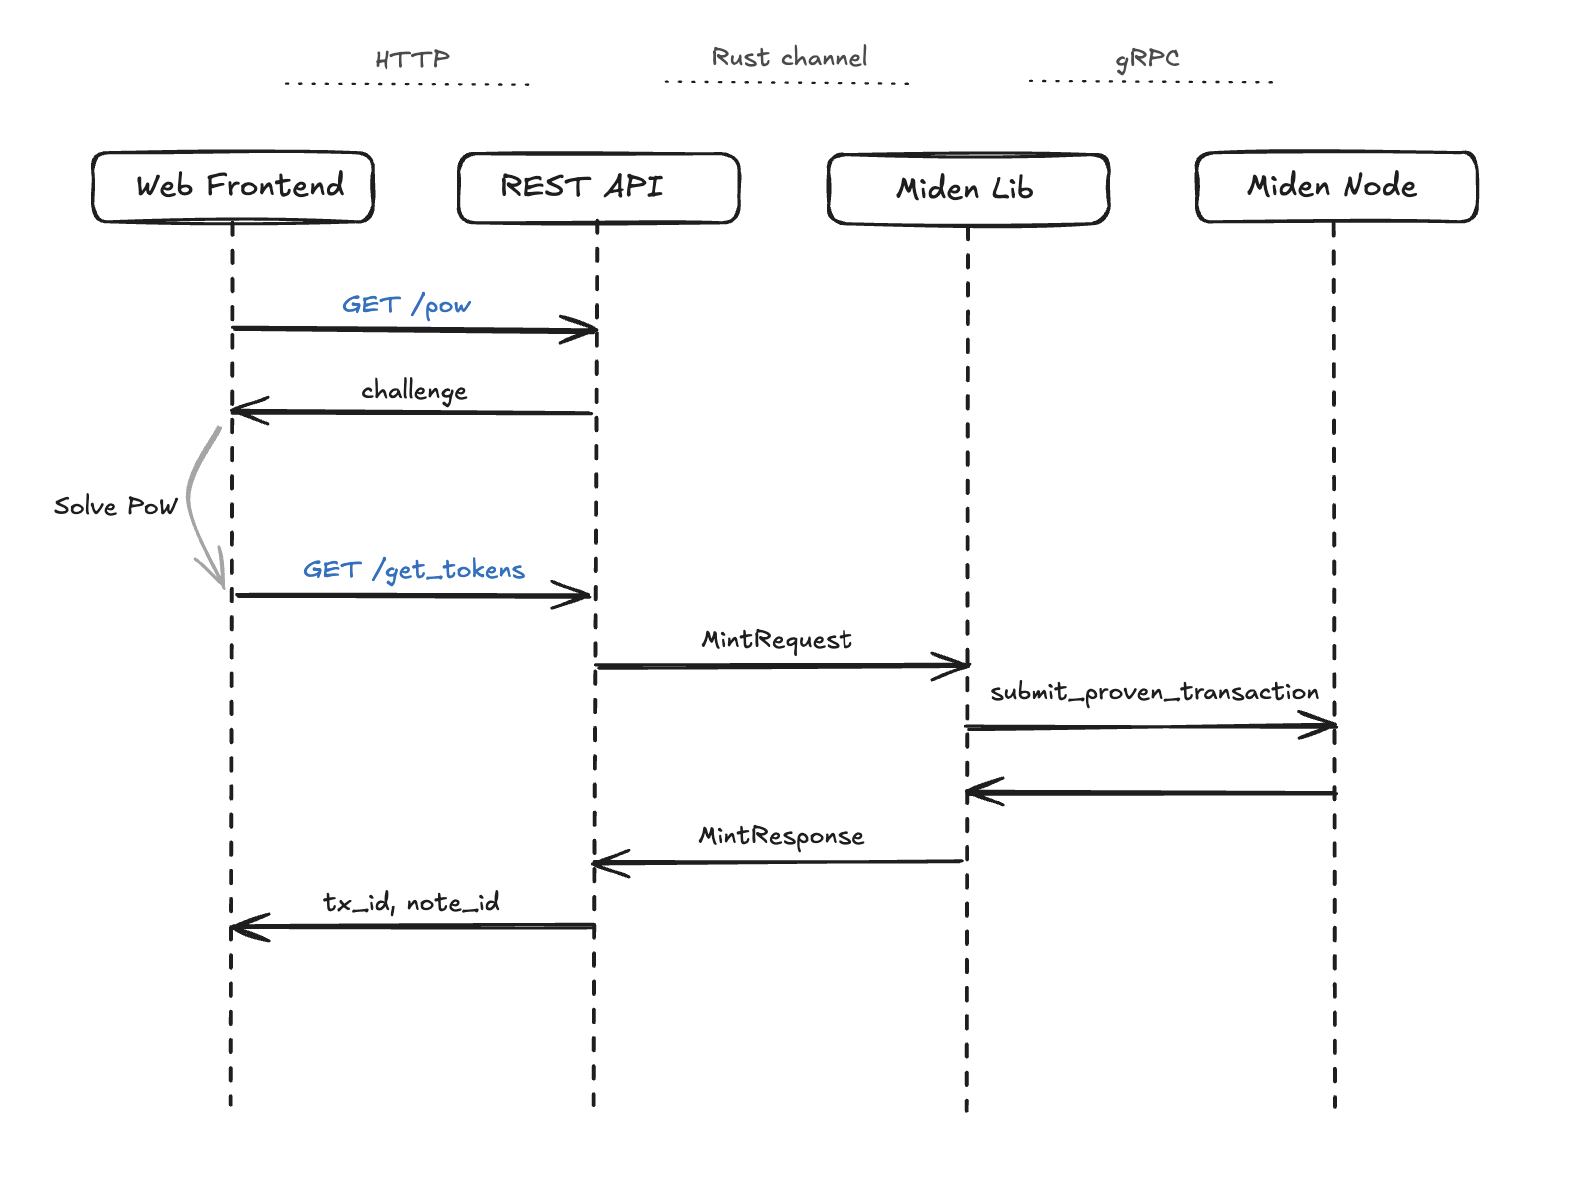
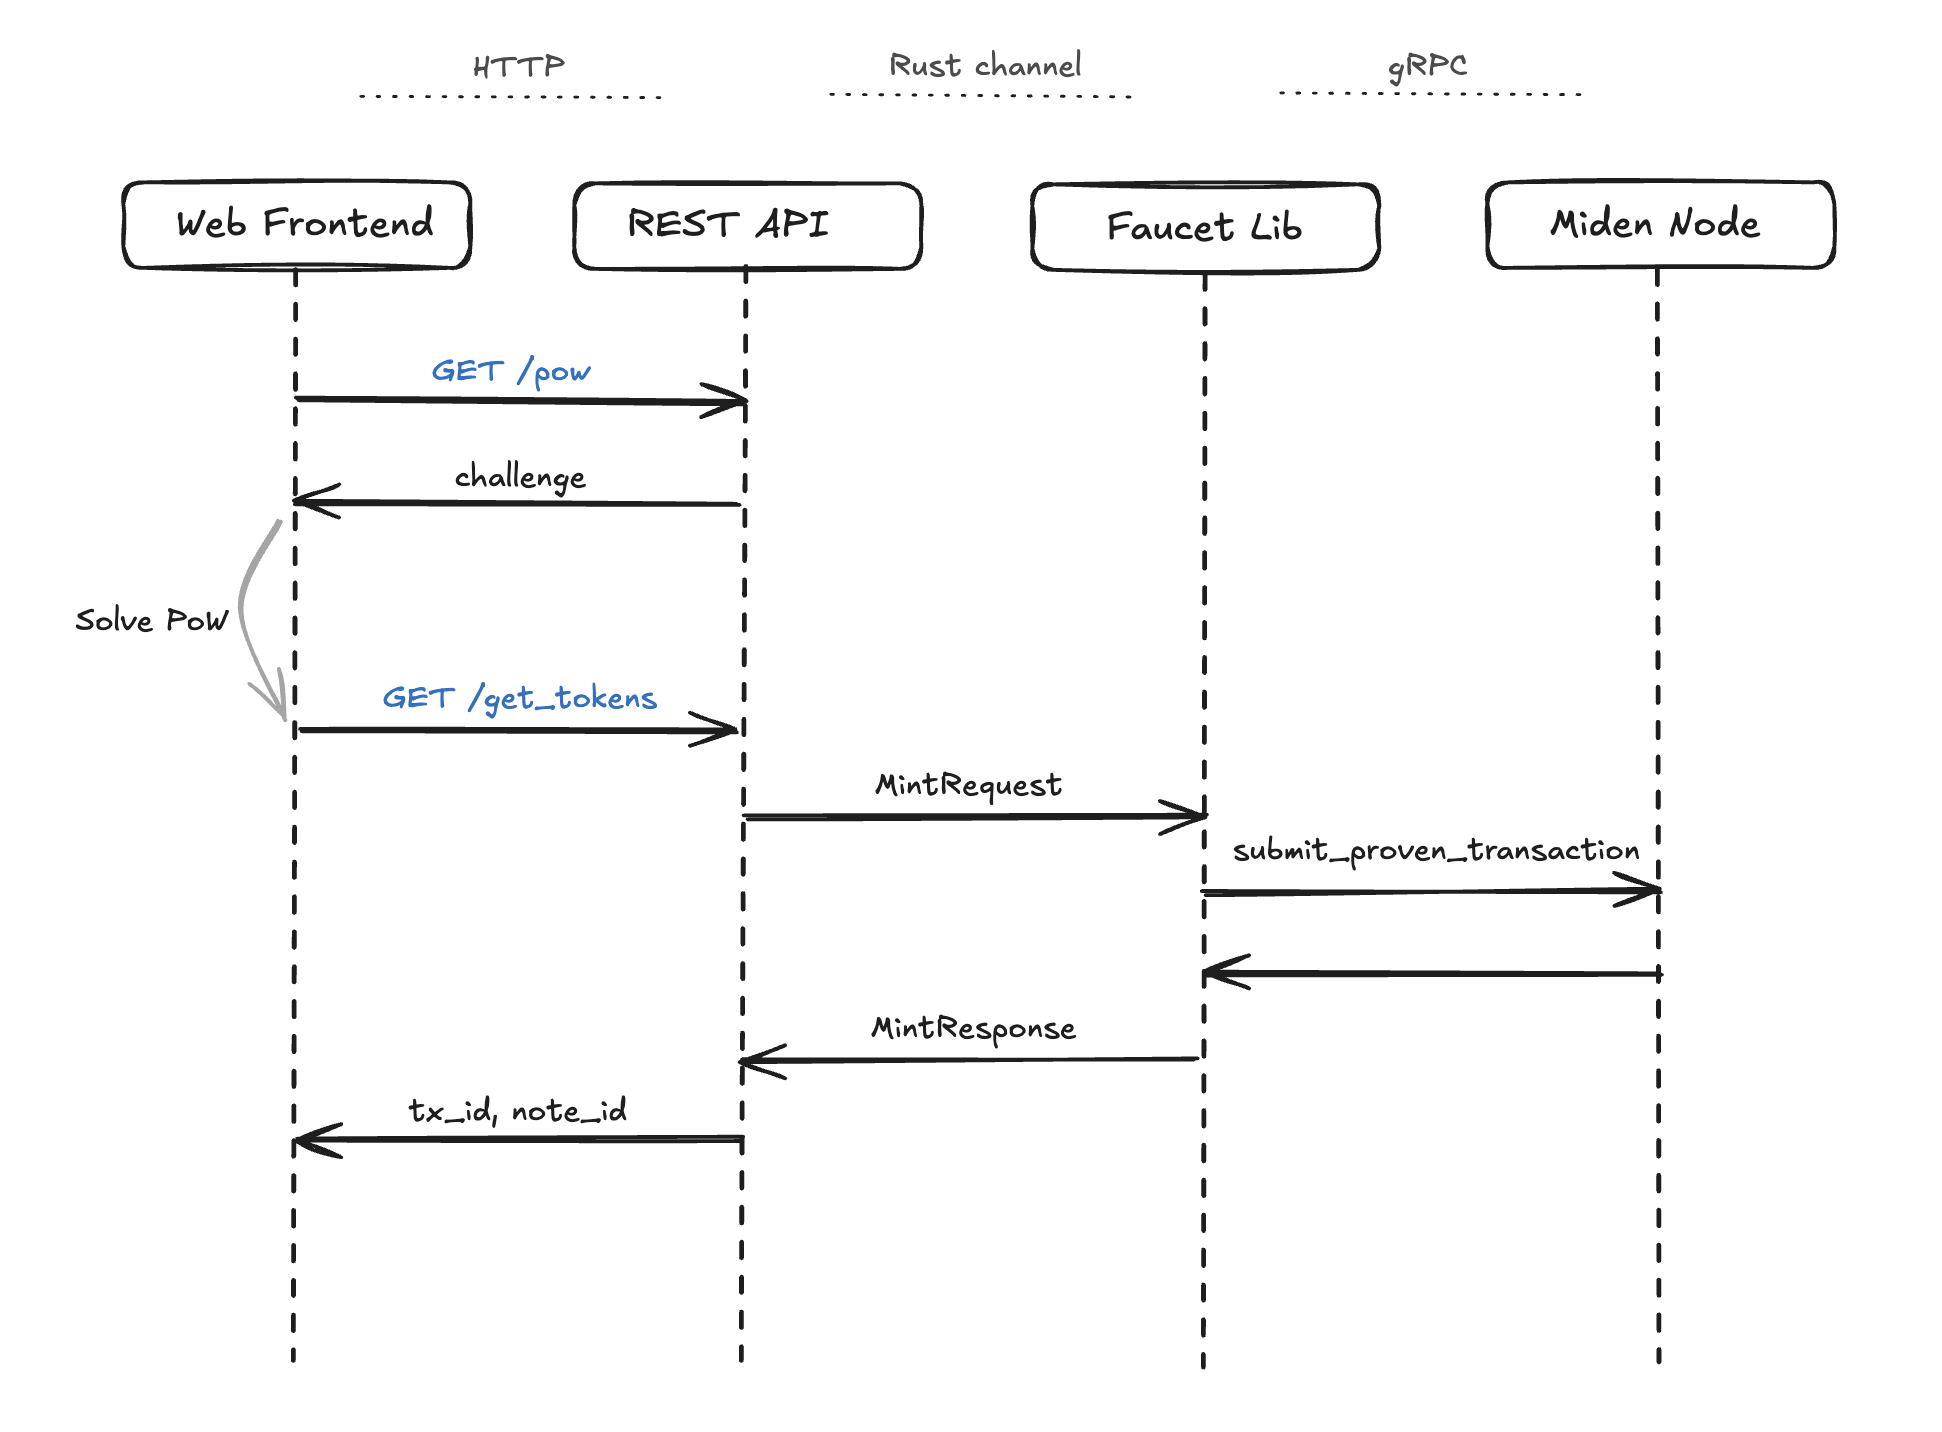
review: address comments

diff --git a/bin/faucet/src/main.rs b/bin/faucet/src/main.rs
@@ -101,8 +101,8 @@ pub enum Command {
         network: FaucetNetwork,
 
         /// The secret to be used by the server to generate the `PoW` seed.
-        #[arg(long = "pow-secret", value_name = "STRING", env = ENV_POW_SECRET)]
-        pow_secret: Option<String>,
+        #[arg(long = "pow-secret", value_name = "STRING", default_value = "", env = ENV_POW_SECRET)]
+        pow_secret: String,
 
         /// The duration during which the `PoW` challenges are valid. Changing this will affect the
         /// rate limiting, since it works by rejecting new submissions while the previous submitted
@@ -262,7 +262,7 @@ async fn run_faucet_command(cli: Cli) -> anyhow::Result<()> {
                 faucet.issuance(),
                 max_claimable_amount,
                 tx_mint_requests,
-                pow_secret.unwrap_or_default().as_str(),
+                pow_secret.as_str(),
                 pow_config,
                 &api_keys,
                 store,
@@ -492,7 +492,7 @@ mod test {
                         max_claimable_amount: 1_000_000_000,
                         network: FaucetNetwork::Localhost,
                         api_keys: vec![],
-                        pow_secret: None,
+                        pow_secret: "test".to_string(),
                         pow_challenge_lifetime: Duration::from_secs(30),
                         pow_cleanup_interval: Duration::from_secs(1),
                         pow_growth_rate: NonZeroUsize::new(1).unwrap(),

diff --git a/docs/src/getting-started/installation.md b/docs/src/getting-started/installation.md
@@ -1,23 +1,70 @@
 # Installation
 
-## Software prerequisites
+We provide Debian packages for official releases for the Faucet software. Alternatively, it also can be installed from source on most systems using the Rust package manager `cargo`.
 
-Install the Miden Faucet.
+## Debian package
 
-- [Rust installation](https://www.rust-lang.org/tools/install) minimum version 1.88.
+Official Debian packages are available under our [releases](https://github.com/0xMiden/miden-faucet/releases) page.
+Both `amd64` and `arm64` packages are available.
 
-## Installation
+Note that the packages include a `systemd` service which is disabled by default.
 
-Run the following command to install the miden-client:
+To install, download the desired releases `.deb` package and checksum files. Install using
+
+```sh
+sudo dpkg -i $package_name.deb
+```
+
+You can (and should) verify the checksum prior to installation using a SHA256 utility. This differs from platform to platform, but on most linux distros:
+
+```sh
+sha256sum --check $checksum_file.deb.checksum
+```
+
+can be used so long as the checksum file and the package file are in the same folder.
+
+## Install using `cargo`
+
+Install Rust version **1.89** or greater using the official Rust installation
+[instructions](https://www.rust-lang.org/tools/install).
+
+Depending on the platform, you may need to install additional libraries. For example, on Ubuntu 22.04 the following
+command ensures that all required libraries are installed.
+
+```sh
+sudo apt install llvm clang bindgen pkg-config libssl-dev libsqlite3-dev
+```
+
+Install the latest faucet binary:
 
 ```sh
 cargo install miden-faucet --locked
 ```
 
-This installs the `miden-faucet` binary (at `~/.cargo/bin/miden-faucet`).
+This will install the latest official version of the faucet. You can install a specific version `x.y.z` using
 
-## Verify Installation
+```sh
+cargo install miden-faucet --locked --version x.y.z
+```
 
-```bash
-miden-faucet --version
-``` 
+You can also use `cargo` to compile the node from the source code if for some reason you need a specific git revision.
+Note that since these aren't official releases we cannot provide much support for any issues you run into, so consider
+this for advanced use only. The incantation is a little different as you'll be targeting our repo instead:
+
+```sh
+# Install from a specific branch
+cargo install --locked --git https://github.com/0xMiden/miden-faucet miden-faucet --branch <branch>
+
+# Install a specific tag
+cargo install --locked --git https://github.com/0xMiden/miden-faucet miden-faucet --tag <tag>
+
+# Install a specific git revision
+cargo install --locked --git https://github.com/0xMiden/miden-faucet miden-faucet --rev <git-sha>
+```
+
+More information on the various `cargo install` options can be found
+[here](https://doc.rust-lang.org/cargo/commands/cargo-install.html#install-options).
+
+## Updating
+
+Updating the faucet to a new version is as simply as re-running the install process.

diff --git a/docs/src/rest-api.md b/docs/src/rest-api.md
@@ -2,26 +2,12 @@
 
 REST API for programmatic access to the faucet service.
 
-## Authentication
+The Miden Faucet API follows a two-step process to request tokens:
 
-### API Keys
+1. **Request a Challenge** (`GET /pow`): Obtain a proof-of-work challenge that must be solved computationally
+2. **Request tokens** (`GET /get_tokens`): Submit the solved challenge along with your token request
 
-Some endpoints support API key authentication for enhanced PoW.
-
-The PoW difficulty of the faucet scales with the number of active requests. When using an API key, the difficulty will only depend on the number of active requests under that API key.
-
-To request a challenge using an API key:
-
-```bash
-GET /pow?account_id=mdev1qpfpnrkpk3dg7gqsvrnxlsv7fqc4gcwt&api_key=miden_faucet_wONsvRXLZ9FgQG+nlkaq9f2X53cLswe4HSzEIUjFIkQ=
-```
-
-### Rate Limiting
-
-When a challenge is submitted for an account, that same account cannot submit a new challenge while the previous one is still valid. This effectively rate limits accounts minting requests. Though, the same account can use API keys to submit multiple challenges simultaneously:
-
-- **Without API Key**: Global rate limiting based on account ID
-- **With API Key**: Separate rate limits per API key
+For detailed information about the token request flow, see the [Architecture](/docs/src/architecture/overview.md#token-request-flow) section.
 
 ## Responses
 
@@ -94,3 +80,22 @@ When a challenge is submitted for an account, that same account cannot submit a 
 - **Response**: JSON object containing:
   - `note_id` (string): The ID of the requested note
   - `data_base64` (string): The note data encoded in base64 format. This data should be decoded and saved as a file with `.mno` extension and `application/octet-stream` media type
+
+## Rate Limiting
+
+When a challenge is submitted for an account, that same account cannot submit a new challenge while the previous one is still valid. This effectively rate limits accounts minting requests. Though, the same account can use API keys to submit multiple challenges simultaneously:
+
+- **Without API Key**: Global rate limiting based on account ID
+- **With API Key**: Separate rate limits per API key
+
+### API Keys
+
+Some endpoints support API key authentication for enhanced PoW.
+
+The PoW difficulty of the faucet scales with the number of active requests. When using an API key, the difficulty will only depend on the number of active requests under that API key.
+
+To request a challenge using an API key:
+
+```bash
+GET /pow?account_id=mdev1qpfpnrkpk3dg7gqsvrnxlsv7fqc4gcwt&api_key=miden_faucet_wONsvRXLZ9FgQG+nlkaq9f2X53cLswe4HSzEIUjFIkQ=
+```

diff --git a/docs/src/getting-started/quick-start.md b/docs/src/getting-started/quick-start.md
@@ -5,9 +5,11 @@ Get the Miden Faucet running in minutes.
 ## Prerequisites
 
 - Miden Faucet installed (see [Installation](./installation.md))
-- Access to a Miden node (testnet or local)
+- Access to a Miden node (testnet, devnet, or local)
 
 ## Step 1: Create a Faucet Account
+
+First, we need to create a faucet account that will hold the tokens to be distributed. This command generates a new account with the specified token configuration and saves the account data to a local file (`faucet.mac`). The account is not yet deployed to the network - that will happen when the faucet is running and the first transaction is sent to the node.
 
 ```bash
 miden-faucet create-faucet-account \
@@ -19,18 +21,22 @@ miden-faucet create-faucet-account \
 
 ## Step 2: Start the Faucet Server
 
+Next, start the faucet server by specifying the endpoint it should listen on, the Miden node it will connect to, and the account file to use for distributing tokens. The server will handle incoming token requests and manage the minting process.
+
 ```bash
 miden-faucet start \
   --endpoint http://localhost:8080 \
-  --node-url https://rpc.testnet.miden.io:443 \
-  --account ./faucet.mac \
+  --node-url https://rpc.testnet.miden.io \
+  --account ./faucet.mac
 ```
 
 ## Step 3: Access the Web Interface
 
-Open `http://localhost:8080` in your browser.
+The faucet provides a web interface for easy token requests. Open `http://localhost:8080` in your browser to access it.
 
 ## Step 4: Request Test Tokens
+
+Once the faucet is running, you can request test tokens through either the web interface or the REST API.
 
 ### Via Web Interface
 
@@ -66,7 +72,7 @@ Connect to the node deployed in Miden Devnet.
 ```bash
 miden-faucet start \
   --endpoint http://localhost:8080 \
-  --node-url http://rpc.devnet.miden.io:443 \
+  --node-url https://rpc.devnet.miden.io \
   --account ./faucet.mac \
   --network devnet
 ```
@@ -78,7 +84,7 @@ Connect to the node deployed in Miden Testnet.
 ```bash
 miden-faucet start \
   --endpoint http://localhost:8080 \
-  --node-url https://rpc.testnet.miden.io:443 \
+  --node-url https://rpc.testnet.miden.io \
   --account ./faucet.mac \
   --network testnet
 ``` 

diff --git a/docs/src/getting-started/configuration.md b/docs/src/getting-started/configuration.md
@@ -37,11 +37,20 @@ miden-faucet start \
 
 | Option | Description | Default | Required |
 |--------|-------------|---------|----------|
-| `--pow-secret` | Secret for PoW challenges | - | No |
+| `--pow-secret` | Secret for PoW challenges | "" | No |
 | `--pow-baseline` | Base PoW difficulty (0-32) | `12` | No |
 | `--pow-challenge-lifetime` | Challenge validity duration | `30s` | No |
 | `--pow-cleanup-interval` | Cache cleanup interval | `2s` | No |
 | `--pow-growth-rate` | Difficulty growth rate | `1` | No |
+
+### Understanding PoW
+
+The Proof of Work system prevents abuse by requiring computational work:
+
+1. **Baseline Difficulty**: Starting difficulty when no requests are pending
+2. **Growth Rate**: How quickly difficulty increases with load
+3. **Challenge Lifetime**: How long challenges remain valid
+4. **Cleanup Interval**: How often expired challenges are removed
 
 ### Advanced Configuration
 
@@ -113,15 +122,6 @@ export MIDEN_FAUCET_API_KEYS=key1,key2,key3
 - **Use Case**: Run your custom network
 
 ## Proof of Work Configuration
-
-### Understanding PoW
-
-The Proof of Work system prevents abuse by requiring computational work:
-
-1. **Baseline Difficulty**: Starting difficulty when no requests are pending
-2. **Growth Rate**: How quickly difficulty increases with load
-3. **Challenge Lifetime**: How long challenges remain valid
-4. **Cleanup Interval**: How often expired challenges are removed
 
 ### Recommended Settings
 

diff --git a/bin/faucet/README.md b/bin/faucet/README.md
@@ -1,6 +1,8 @@
 # Miden faucet
 
-This crate contains a binary for running a Miden testnet faucet.
+This crate contains a binary for running a Miden testnet faucet. 
+
+For comprehensive guides, API reference, and examples, see the [Miden Faucet Documentation](/docs/src/SUMMARY.md).
 
 ## Running the faucet
 
@@ -45,10 +47,6 @@ The faucet implements several security measures to prevent abuse:
   - Maximum batch size: 100 requests
   - Requests are processed in batches to optimize performance
   - Failed requests within a batch are handled individually
-
-## Examples
-
-See [Faucet docs](../../docs/src/api-usage.md) for more info on how to interact with the REST API.
 
 #### API Endpoints Reference
 

diff --git a/docs/src/index.md b/docs/src/index.md
@@ -1,6 +1,10 @@
 # Miden Faucet
 
-The Miden faucet contains a library and a binary CLI.
+The Miden Faucet is a token distribution service that provides developers and users with test tokens for the Miden blockchain without cost.
+
+It implements proof-of-work challenges to ensure fair distribution of tokens, balancing accessibility for legitimate users while preventing malicious actors from draining the token supply.
+
+It contains a library and a binary CLI.
 
 ### Miden faucet library
 
